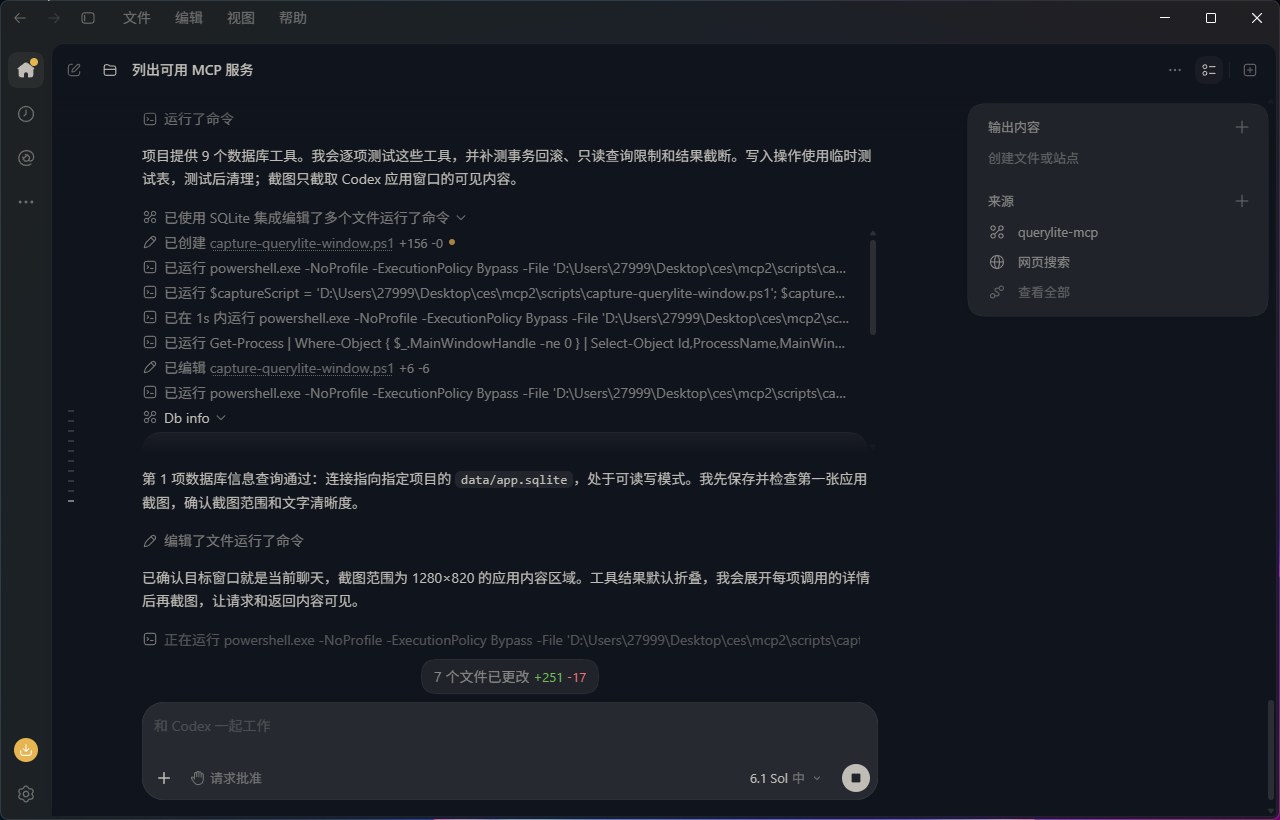
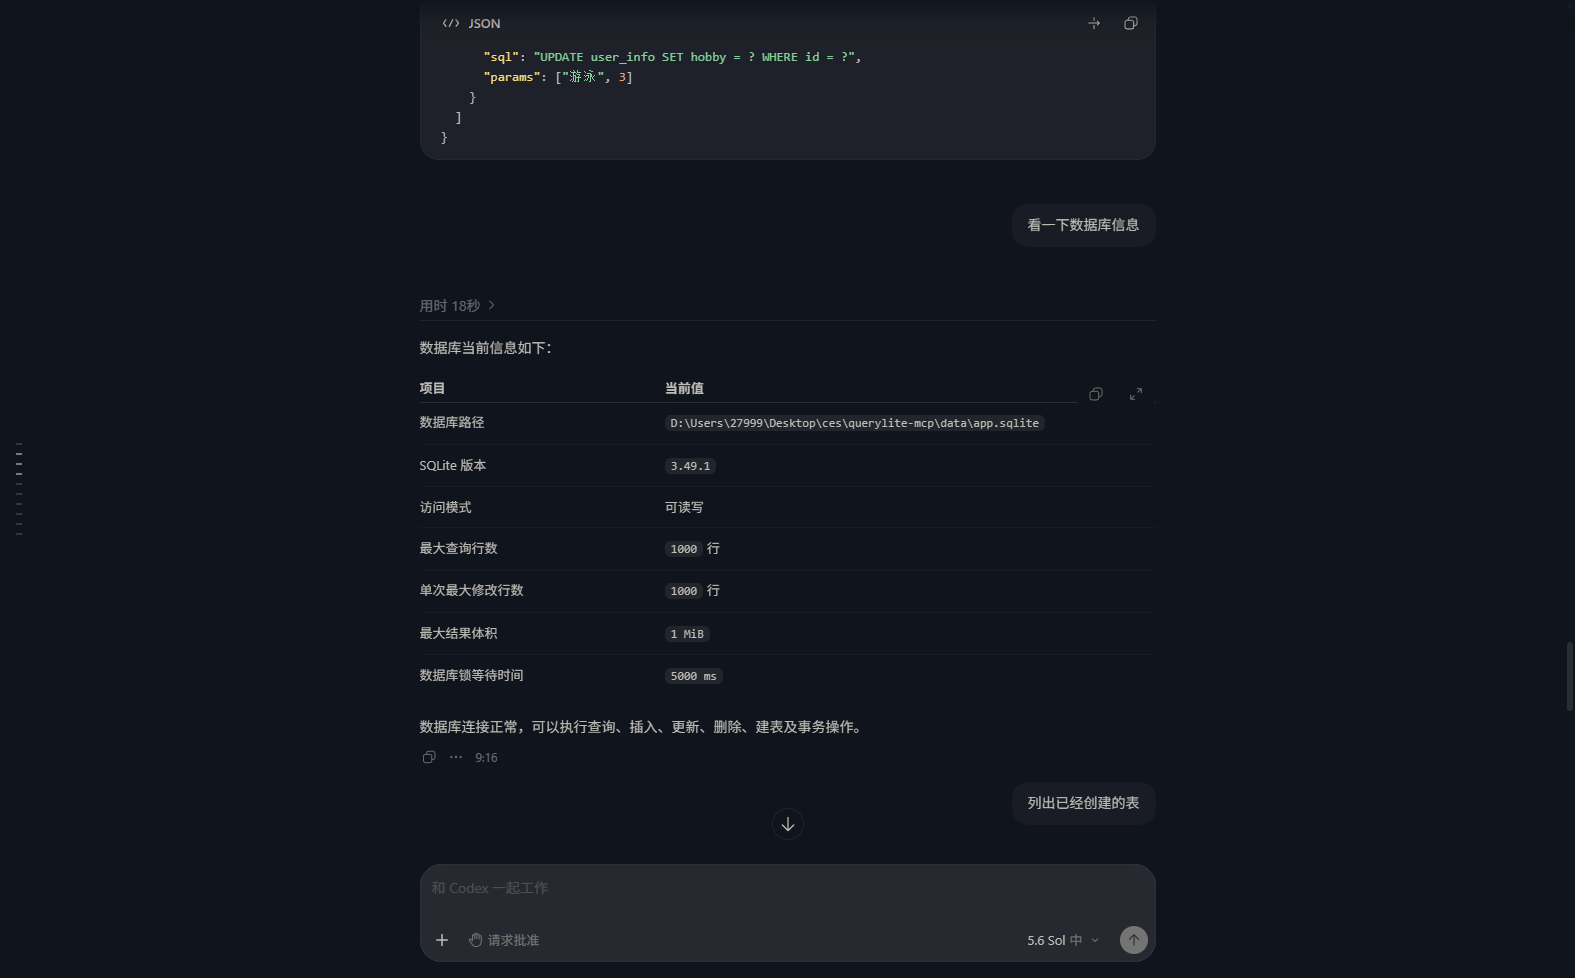
更新测试数据

diff --git a/images/sqlite-mcp-数据库操作测试记录.md b/images/sqlite-mcp-数据库操作测试记录.md
@@ -1,0 +1,173 @@
+# SQLite MCP 数据库操作记录
+
+> 记录时间：2026-10-21 09:16 — 09:41
+> 数据库连接状态：正常，可执行查询、插入、更新、删除、建表及事务操作。
+
+## 一、数据库基本信息
+
+| 项目 | 当前值 |
+| --- | --- |
+| 数据库路径 | `D:\Users\27999\Desktop\ces\querylite-mcp\data\app.sqlite` |
+| SQLite 版本 | 3.49.1 |
+| 访问模式 | 可读写 |
+| 最大查询行数 | 1000 行 |
+| 单次最大修改行数 | 1000 行 |
+| 最大结果体积 | 1 MiB |
+| 数据库锁等待时间 | 5000 ms |
+
+## 二、数据库表清单
+
+当前数据库共 3 张表，没有视图。
+
+| 表名 | 主要用途或字段 |
+| --- | --- |
+| `mcp_test_20261020_01` | 测试表，包含年龄、职业、爱好和唯一标记 |
+| `user_info` | 用户信息表，包含年龄、职业和爱好 |
+| `workbuddy_reources` | WorkBuddy 资源表，保存能力类型、名称、版本、状态和原始 JSON |
+
+### 建表语句
+
+**表 1：`mcp_test_20261020_01`**
+
+```sql
+CREATE TABLE mcp_test_20261020_01 (
+    id INTEGER PRIMARY KEY,
+    age INTEGER NOT NULL CHECK (age >= 0),
+    occupation TEXT NOT NULL,
+    hobby TEXT NOT NULL,
+    marker TEXT NOT NULL UNIQUE
+);
+```
+
+**表 2：`user_info`**
+
+```sql
+CREATE TABLE user_info (
+    id INTEGER PRIMARY KEY AUTOINCREMENT,
+    age INTEGER NOT NULL CHECK (age >= 0),
+    occupation TEXT NOT NULL,
+    hobby TEXT NOT NULL
+);
+```
+
+**表 3：`workbuddy_reources`**
+
+```sql
+CREATE TABLE workbuddy_reources (
+    asset_id TEXT PRIMARY KEY,
+    capability_type TEXT NOT NULL,
+    name TEXT NOT NULL,
+    display_name_zh TEXT,
+    display_name_en TEXT,
+    version TEXT,
+    status TEXT,
+    version_status TEXT,
+    updated_at TEXT,
+    fetched_at TEXT NOT NULL,
+    raw_json TEXT NOT NULL CHECK (json_valid(raw_json))
+);
+```
+
+## 三、`user_info` 表全量数据（操作前）
+
+查询时间：09:17，共 11 条，结果完整无截断。
+
+| ID | 年龄 | 职业 | 爱好 |
+| --- | --- | --- | --- |
+| 1 | 24 | 程序员 | 打羽毛球 |
+| 2 | 26 | 设计师 | 摄影 |
+| 3 | 29 | 程序员 | 打篮球 |
+| 4 | 23 | 教师 | 阅读 |
+| 5 | 31 | 产品经理 | 徒步 |
+| 6 | 25 | 数据分析师 | 打羽毛球 |
+| 7 | 32 | 医生 | 游泳 |
+| 8 | 30 | 律师 | 阅读 |
+| 9 | 27 | 会计 | 瑜伽 |
+| 10 | 28 | 工程师 | 骑行 |
+| 11 | 35 | 厨师 | 钓鱼 |
+
+## 四、查询与操作记录
+
+### 4.1 查询年龄 ≤ 25 的记录（09:17 — 09:18）
+
+命中 3 条。
+
+| ID | 年龄 | 职业 | 爱好 |
+| --- | --- | --- | --- |
+| 4 | 23 | 教师 | 阅读 |
+| 1 | 24 | 程序员 | 打羽毛球 |
+| 6 | 25 | 数据分析师 | 打羽毛球 |
+
+### 4.2 查询爱好为"打羽毛球"的记录（09:19）
+
+命中 2 条。
+
+| ID | 年龄 | 职业 | 爱好 |
+| --- | --- | --- | --- |
+| 1 | 24 | 程序员 | 打羽毛球 |
+| 6 | 25 | 数据分析师 | 打羽毛球 |
+
+### 4.3 更新操作：程序员 + 打羽毛球者年龄改为 30（09:19 — 09:20）
+
+更新 1 条，修改后确认结果如下。
+
+| ID | 年龄 | 职业 | 爱好 |
+| --- | --- | --- | --- |
+| 1 | 30 | 程序员 | 打羽毛球 |
+
+### 4.4 更新后再次查询爱好为"打羽毛球"的记录（09:20 — 09:21）
+
+仍命中 2 条，其中 ID 1 的年龄已由 24 修改为 30。
+
+| ID | 年龄 | 职业 | 爱好 |
+| --- | --- | --- | --- |
+| 1 | 30 | 程序员 | 打羽毛球 |
+| 6 | 25 | 数据分析师 | 打羽毛球 |
+
+### 4.5 新增 2 条数据（09:21 — 09:22）
+
+两个职业均与原有数据不重复，通过同一事务写入并提交成功。
+
+| ID | 年龄 | 职业 | 爱好 |
+| --- | --- | --- | --- |
+| 12 | 27 | 建筑师 | 绘画 |
+| 13 | 29 | 翻译 | 旅行 |
+
+### 4.6 删除操作：删除"翻译"记录（09:40）
+
+按年龄 29、职业"翻译"条件删除，共删除 1 条；复查该条件结果为空，确认记录已不存在。
+
+| 被删除记录 | ID | 年龄 | 职业 | 爱好 |
+| --- | --- | --- | --- | --- |
+| 删除前 | 13 | 29 | 翻译 | 旅行 |
+| 删除后复查 | — | — | — | —（无结果） |
+
+### 4.7 全表复查（09:41）
+
+重新列出全部 3 张表并查询数据，确认删除结果。
+
+| 表名 | 当前数据量 | 说明 |
+| --- | --- | --- |
+| `mcp_test_20261020_01` | 0 条 | 当前为空 |
+| `user_info` | 12 条 | 已删除 ID=13；仍保留一条年龄 29 的"程序员"（ID=3），不是被删记录 |
+| `workbuddy_reources` | 未在本次复查中列出 | WorkBuddy 资源表 |
+
+## 五、`user_info` 表最终状态
+
+综合更新、新增、删除全部操作后的全表（共 12 条）。
+
+| ID | 年龄 | 职业 | 爱好 | 备注 |
+| --- | --- | --- | --- | --- |
+| 1 | 30 | 程序员 | 打羽毛球 | 年龄由 24 更新为 30 |
+| 2 | 26 | 设计师 | 摄影 | — |
+| 3 | 29 | 程序员 | 打篮球 | — |
+| 4 | 23 | 教师 | 阅读 | — |
+| 5 | 31 | 产品经理 | 徒步 | — |
+| 6 | 25 | 数据分析师 | 打羽毛球 | — |
+| 7 | 32 | 医生 | 游泳 | — |
+| 8 | 30 | 律师 | 阅读 | — |
+| 9 | 27 | 会计 | 瑜伽 | — |
+| 10 | 28 | 工程师 | 骑行 | — |
+| 11 | 35 | 厨师 | 钓鱼 | — |
+| 12 | 27 | 建筑师 | 绘画 | 新增 |
+| ~~13~~ | ~~29~~ | ~~翻译~~ | ~~旅行~~ | 已删除 |
